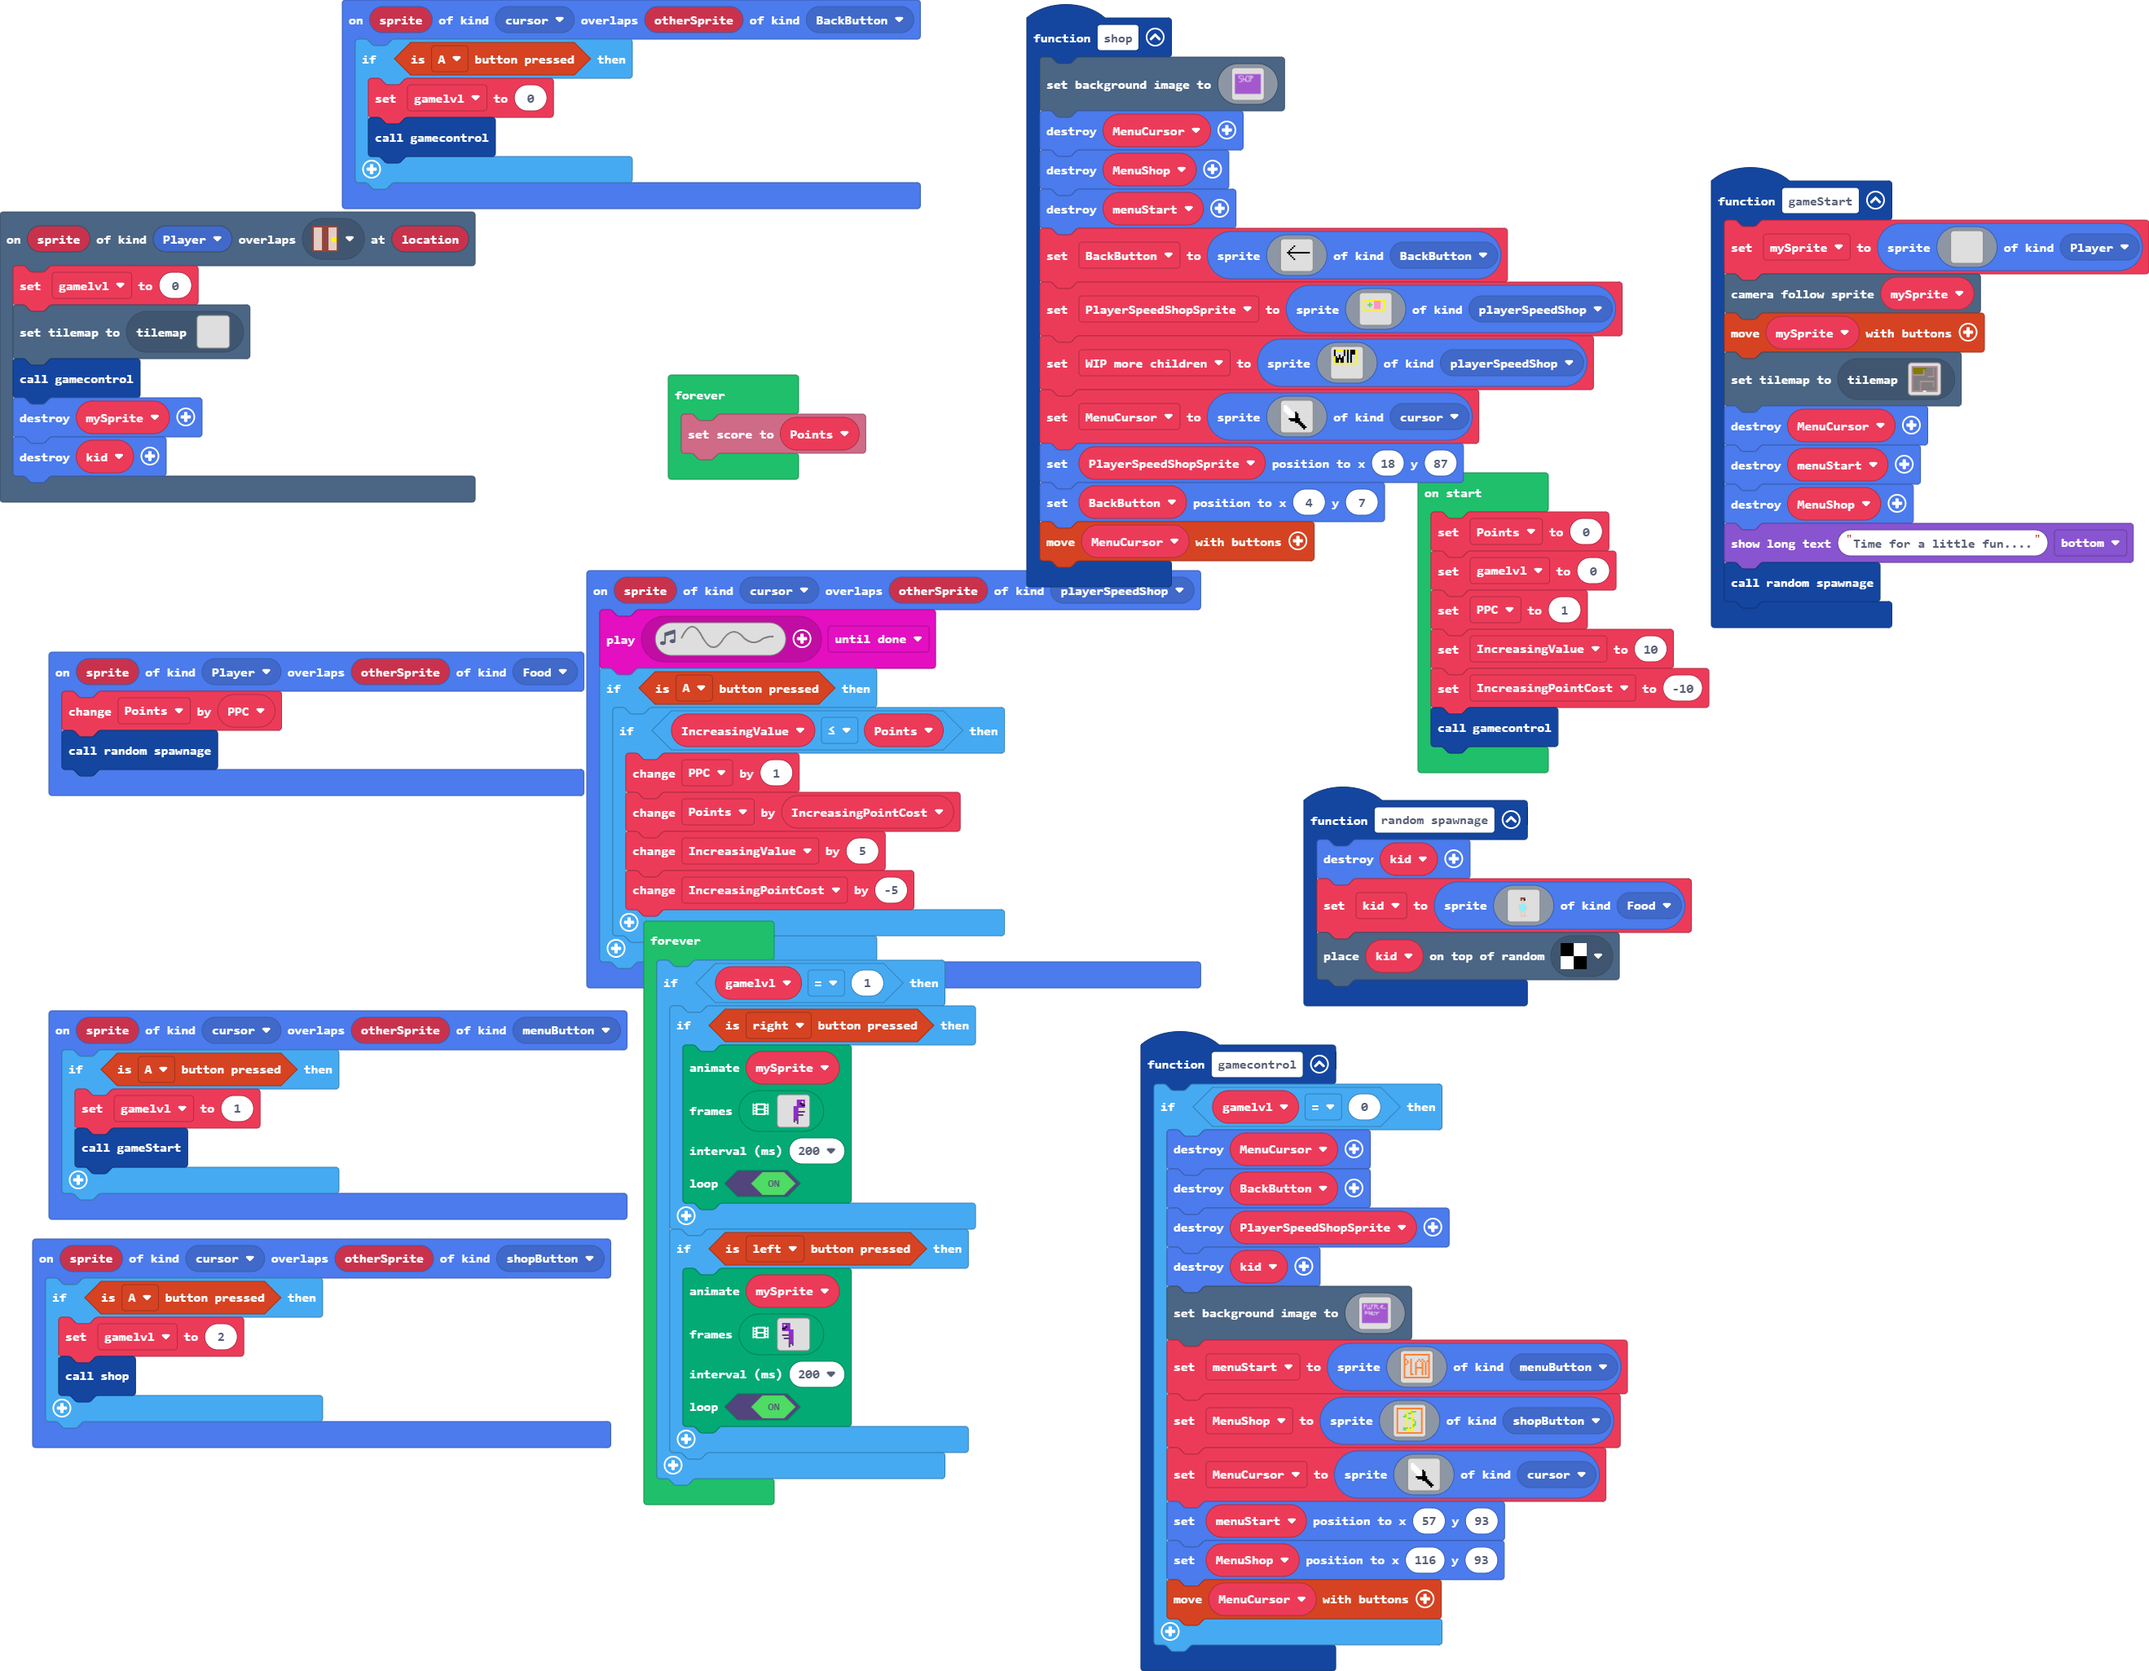
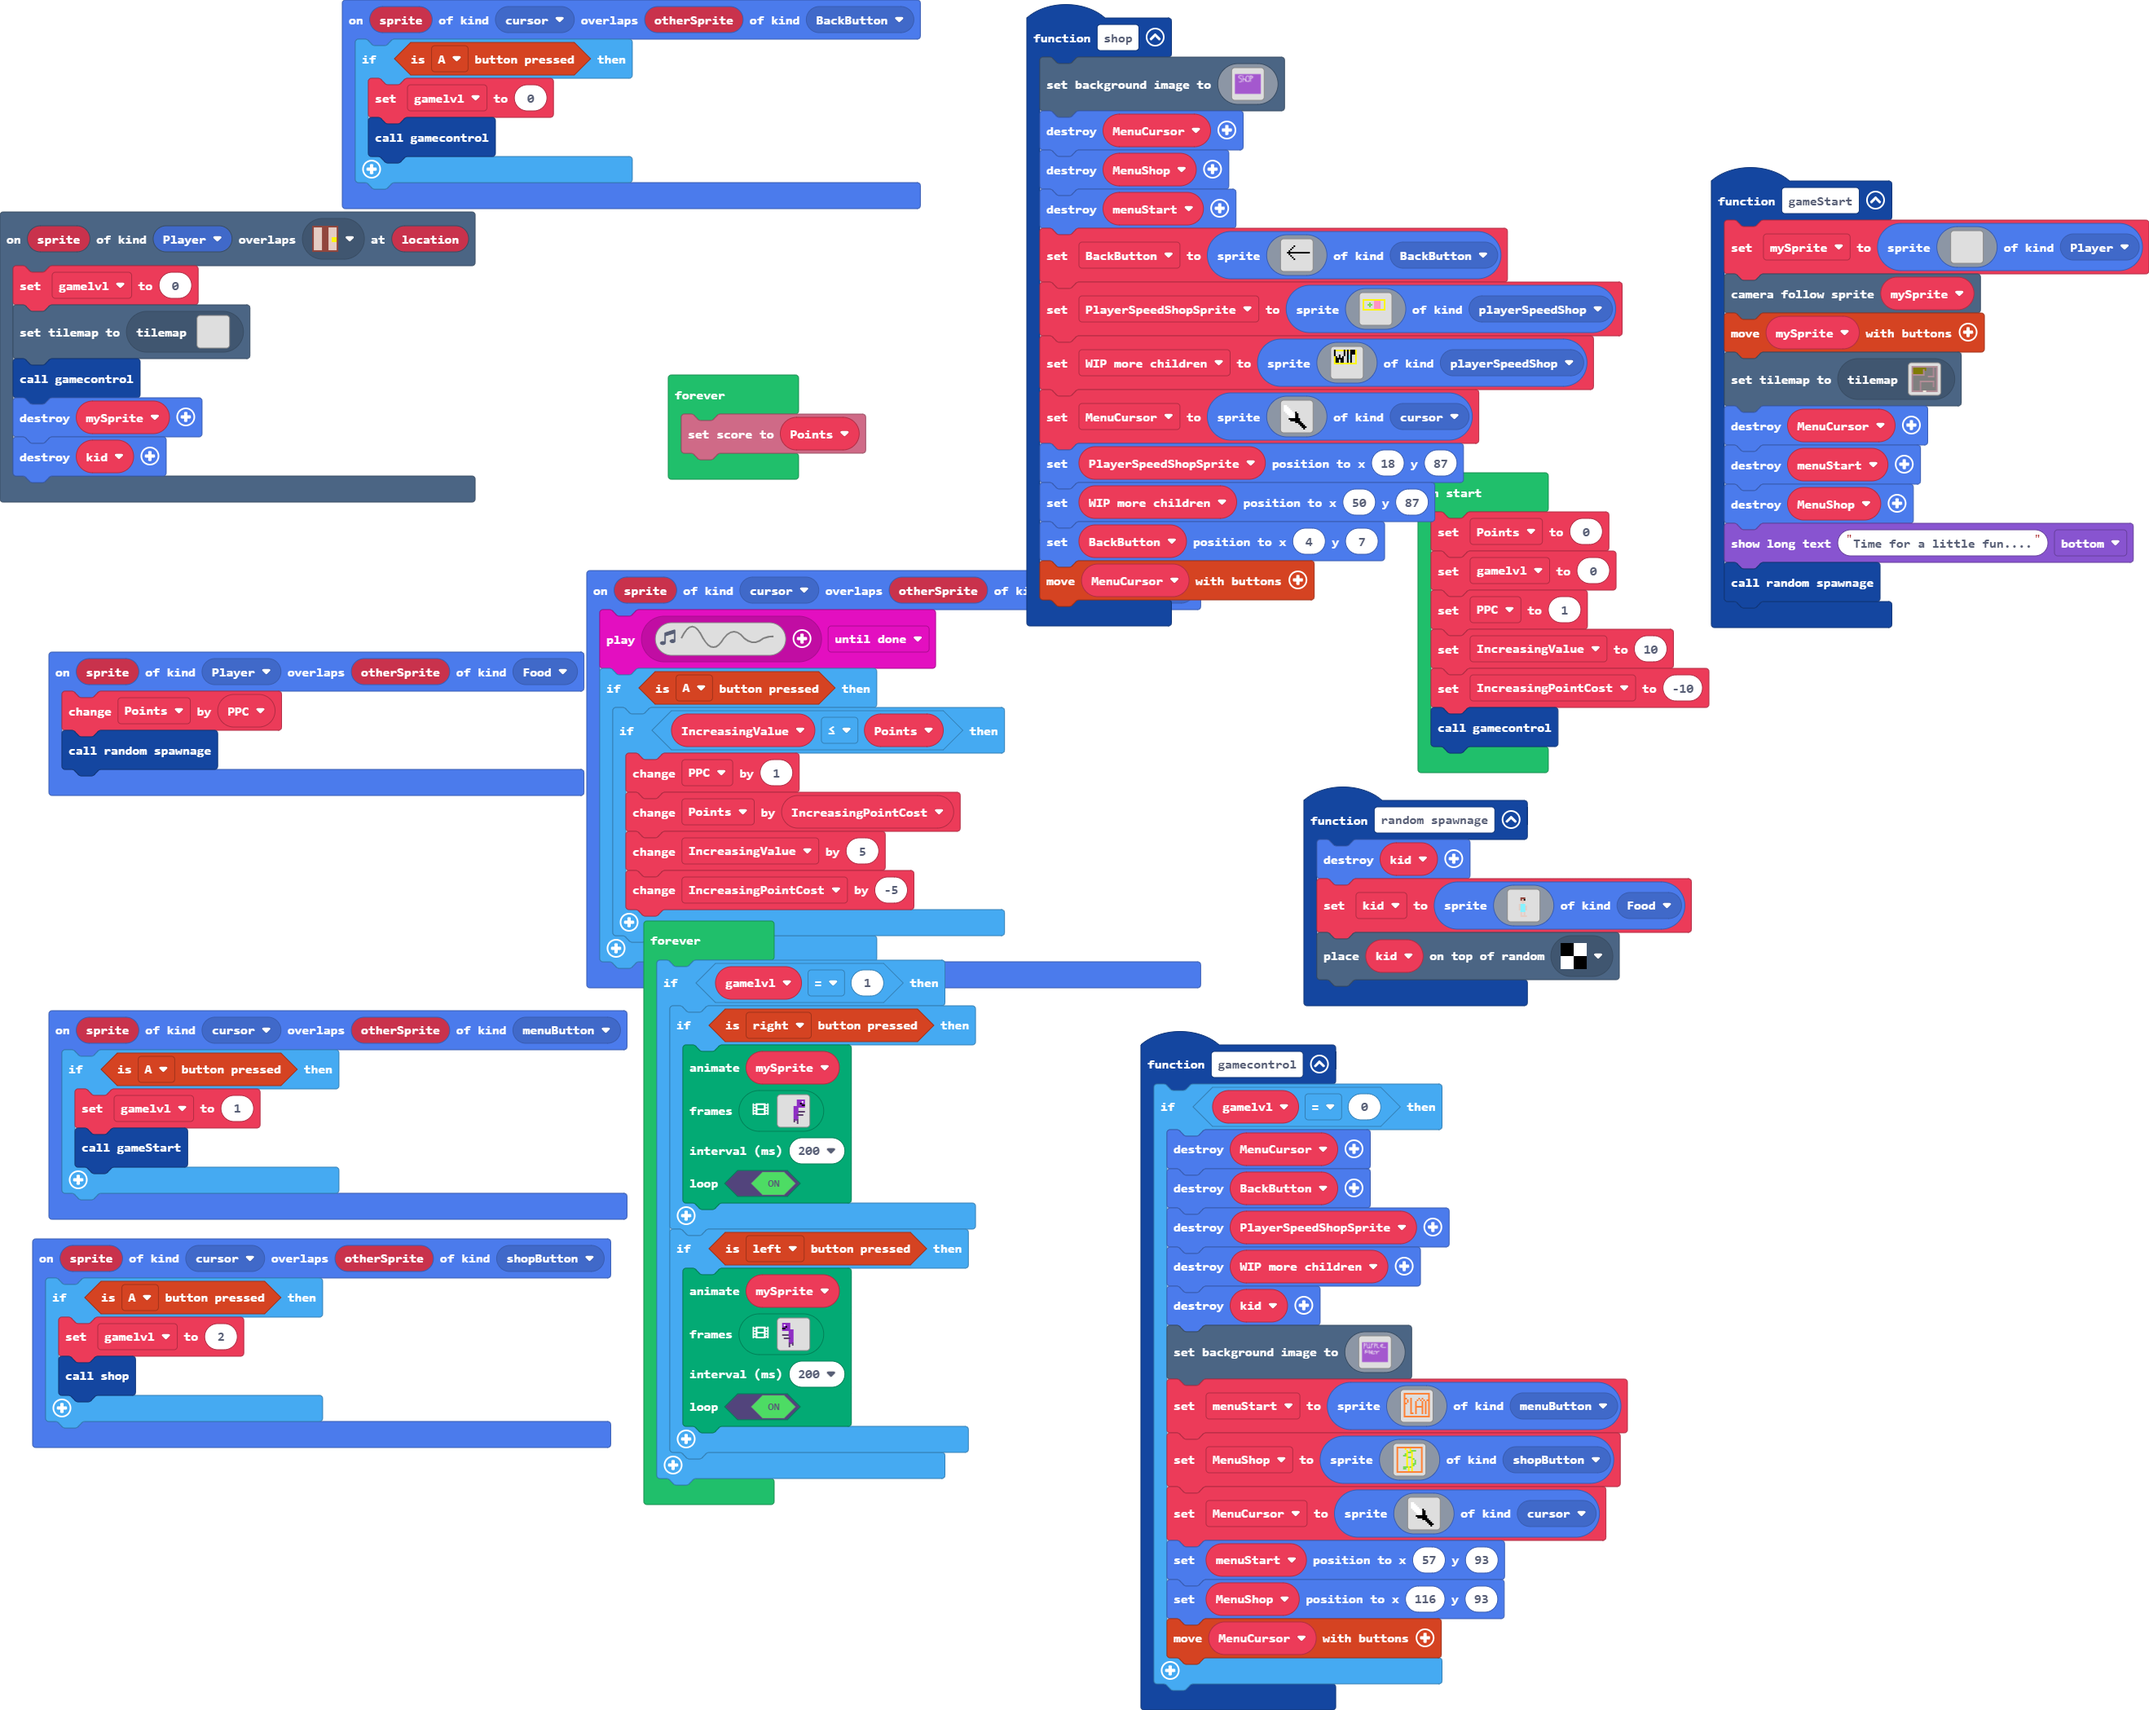
Update pxt.json, main.blocks, main.ts

Changed region(s): [[0.0, 0.0, 1.0, 0.999], [0.0, 0.0, 0.4353, 0.3122], [0.3732, 0.0, 0.4042, 0.0312]]

diff --git a/main.ts b/main.ts
@@ -263,6 +263,7 @@ function shop () {
         . . . . . . . . . . . . f . . . 
         `, SpriteKind.cursor)
     PlayerSpeedShopSprite.setPosition(18, 87)
+    WIP_more_children.setPosition(50, 87)
     BackButton.setPosition(4, 7)
     controller.moveSprite(MenuCursor)
 }
@@ -271,6 +272,7 @@ function gamecontrol () {
         sprites.destroy(MenuCursor)
         sprites.destroy(BackButton)
         sprites.destroy(PlayerSpeedShopSprite)
+        sprites.destroy(WIP_more_children)
         sprites.destroy(kid)
         scene.setBackgroundImage(img`
             aaaaaaaaaaaaaaaaaaaaaaaaaaaaaaaaaaaaaaaaaaaaaaaaaaaaaaaaaaaaaaaaaaaaaaaaaaaaaaaaaaaaaaaaaaaaaaaaaaaaaaaaaaaaaaaaaaaaaaaaaaaaaaaaaaaaaaaaaaaaaaaaaaaaaaaaaaaaaaaa
